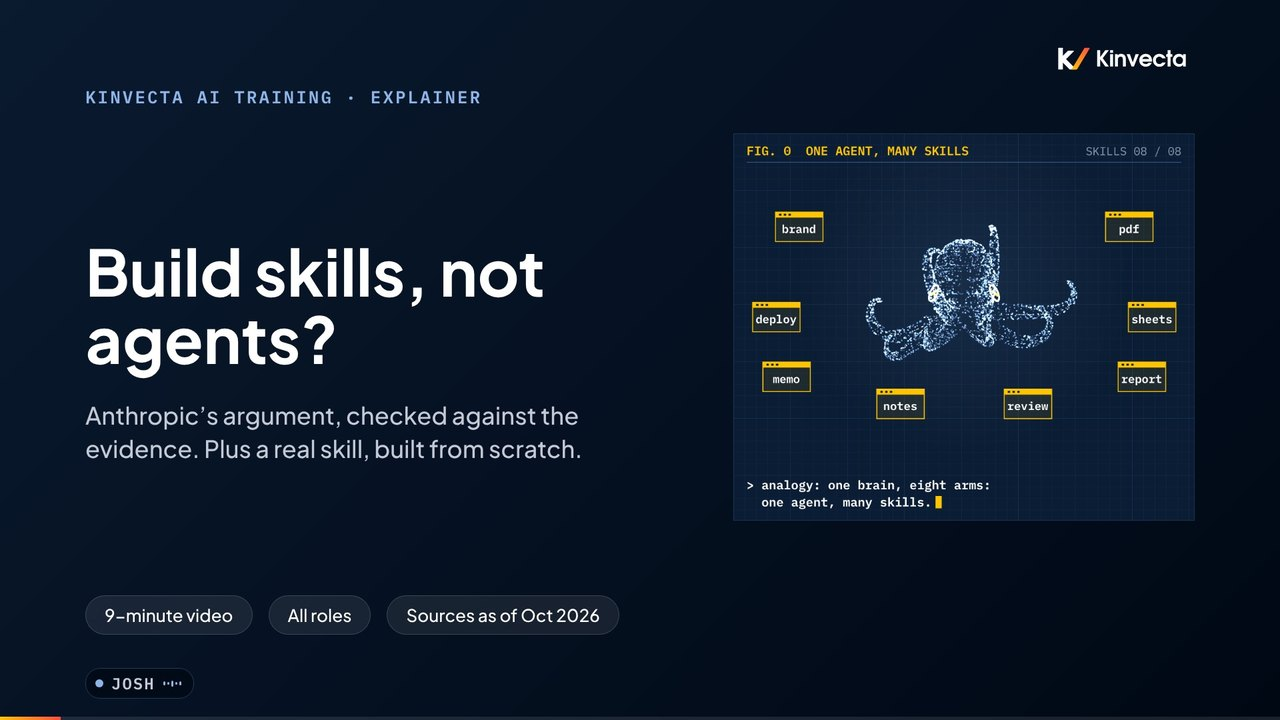
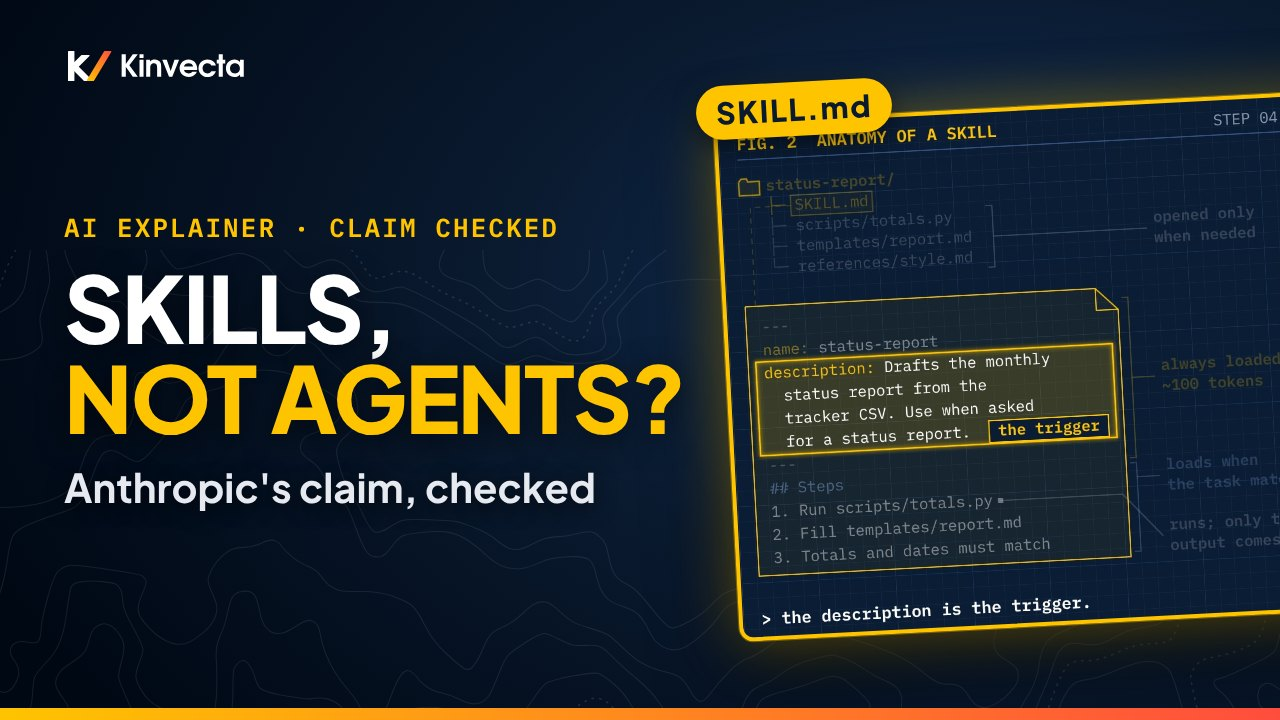
README: link the explainer video and the Explainers playlist
Claude-Session: https://claude.ai/code/session_01PiJnLwuEGyq4K9TJU67M9j

diff --git a/README.md b/README.md
@@ -17,6 +17,7 @@
 </p>
 
 <p align="center">
+  <a href="https://youtu.be/hmE25ADu-AY"><img alt="Watch on YouTube" src="https://img.shields.io/badge/watch-YouTube-red?logo=youtube&logoColor=white"></a>
   <a href="https://agentskills.io/specification"><img alt="Agent Skills format" src="https://img.shields.io/badge/format-Agent%20Skills-FFC400"></a>
   <a href="#validate"><img alt="validated on every push" src="https://img.shields.io/badge/skills-validated-8FB4E8"></a>
   <a href="https://github.com/Kinvecta/the-memory-layer"><img alt="The Memory Layer" src="https://img.shields.io/badge/see%20also-The%20Memory%20Layer-0A1A2F"></a>
@@ -83,7 +84,7 @@ This repo has worked examples you can copy, each with:
 
 Is "build skills, not agents" true? The claim checked against the sources, plus a skill built from scratch.
 
-[Video](#video) · [the research](#the-research)
+[Watch on YouTube](https://youtu.be/hmE25ADu-AY) · [the research](#the-research)
 
 </td>
 <td width="33%" valign="top">
@@ -268,10 +269,10 @@ If an agent edits a skill, a person reviews the change before it's used again. M
 
 <table>
 <tr>
-<td width="40%"><img src="docs/assets/video-thumbnail.jpg" width="100%" alt="Build skills, not agents? Kinvecta explainer video"></td>
+<td width="40%"><a href="https://youtu.be/hmE25ADu-AY"><img src="docs/assets/video-thumbnail.jpg" width="100%" alt="Watch: Build skills, not agents? Anthropic's claim, checked"></a></td>
 <td width="60%" valign="top">
-<b>Build skills, not agents? Anthropic's claim, checked</b><br>
-<sub><b>Length:</b> 9:30 · <b>Video:</b> coming soon</sub>
+<b><a href="https://youtu.be/hmE25ADu-AY">Build skills, not agents? Anthropic's claim, checked</a></b><br>
+<sub><b>Published:</b> 22 Oct 2026 · <b>Length:</b> 9:30 · <a href="https://www.youtube.com/playlist?list=PLZ1VbKY-g_Ok">Explainers playlist&nbsp;→</a></sub>
 <p>Is it true that Anthropic's engineers stopped building agents? Mostly, but the headline goes too far. The claim checked against the sources; the <code>status-report</code> skill built from scratch; how skills load; four rules for writing one; what SkillsBench measured; and why every skill should be treated like code.</p>
 </td>
 </tr>
